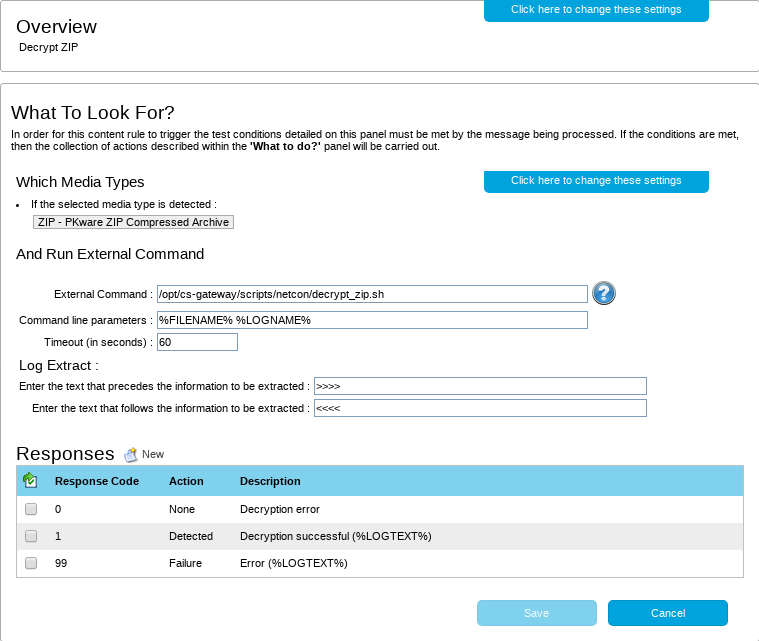
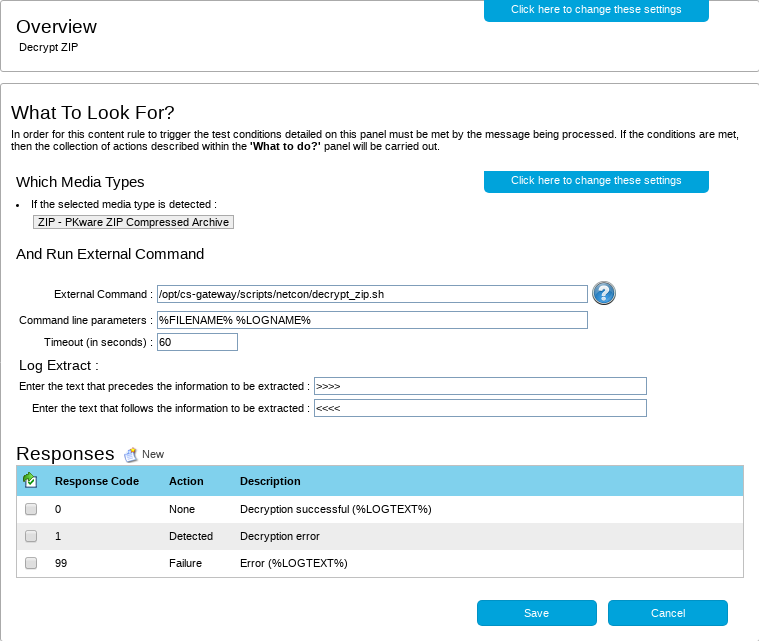
Updated 'decrypt_zip.sh'.

Changed region(s): [[0.3939, 0.78, 0.5758, 0.8424], [0.6061, 0.936, 0.7879, 0.9984]]

diff --git a/README.md b/README.md
@@ -1,4 +1,4 @@
-NetCon Clearswift Configuration V1.43.0
+NetCon Clearswift Configuration V1.44.0
 =======================================
 
 Config tool for missing features on Clearswift Secure E-Mail Gateway. These settings will ease many advanced configuration tasks and highly improve spam detection. Everything is in this single dialog file, which should be run as root.

diff --git a/decrypt_zip/README.md b/decrypt_zip/README.md
@@ -1,4 +1,4 @@
-decrypt_zip.sh V1.0.0
+decrypt_zip.sh V1.1.0
 =====================
 
 Attempts to decrypt zip file using a provided list of passwords and returns info either which password successfully decrypted the zip or that it could not be decrypted with any of the passwords.
